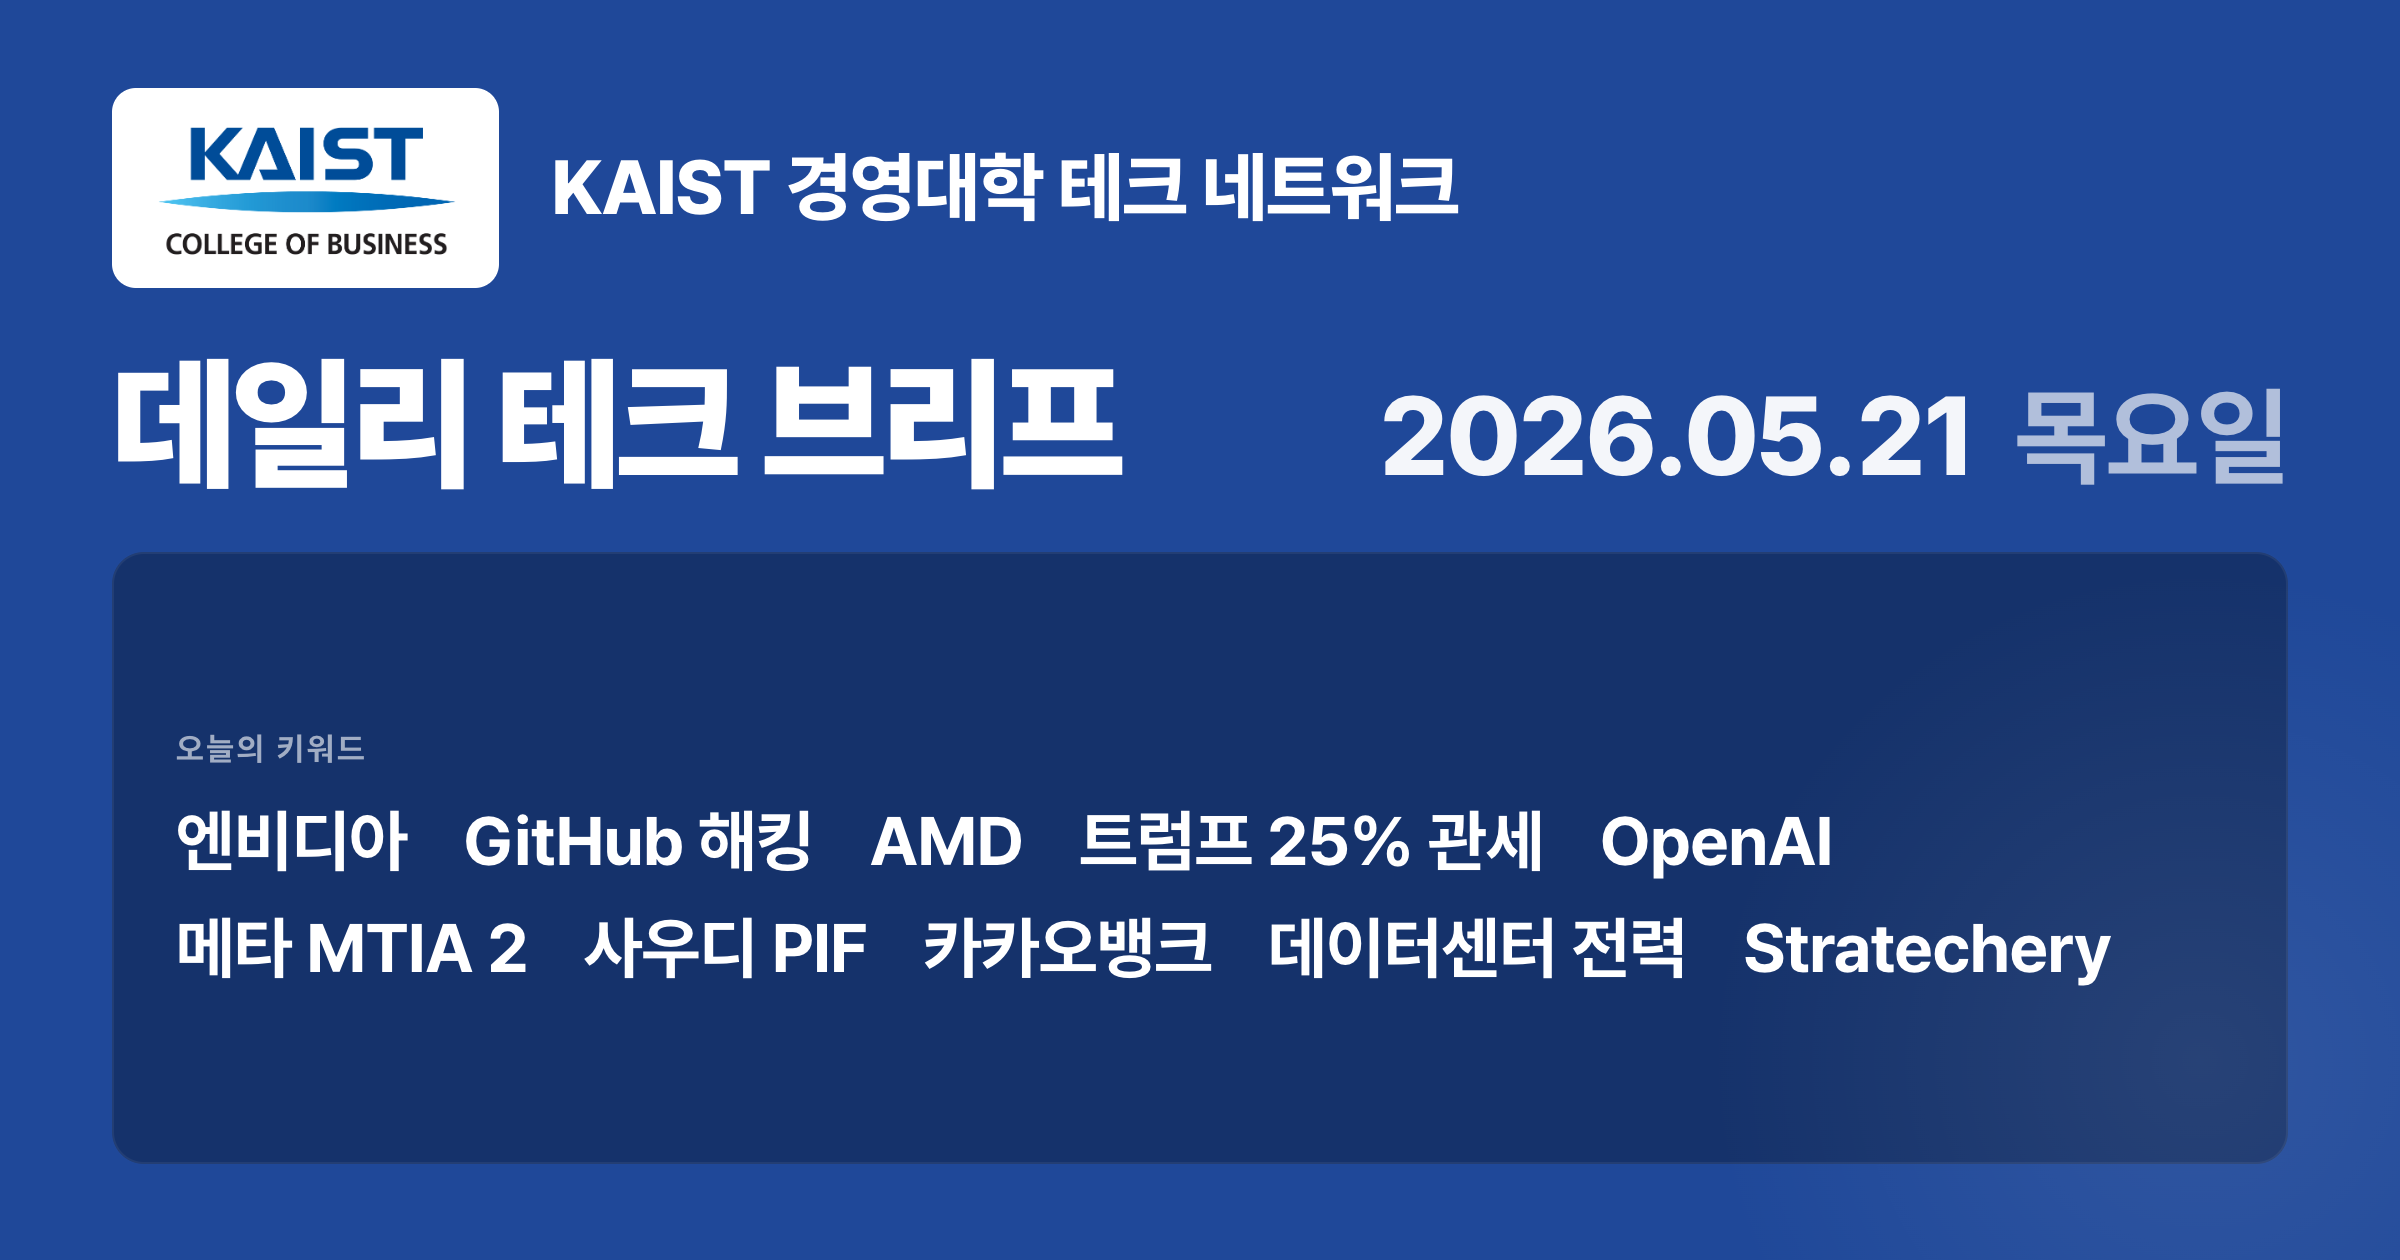
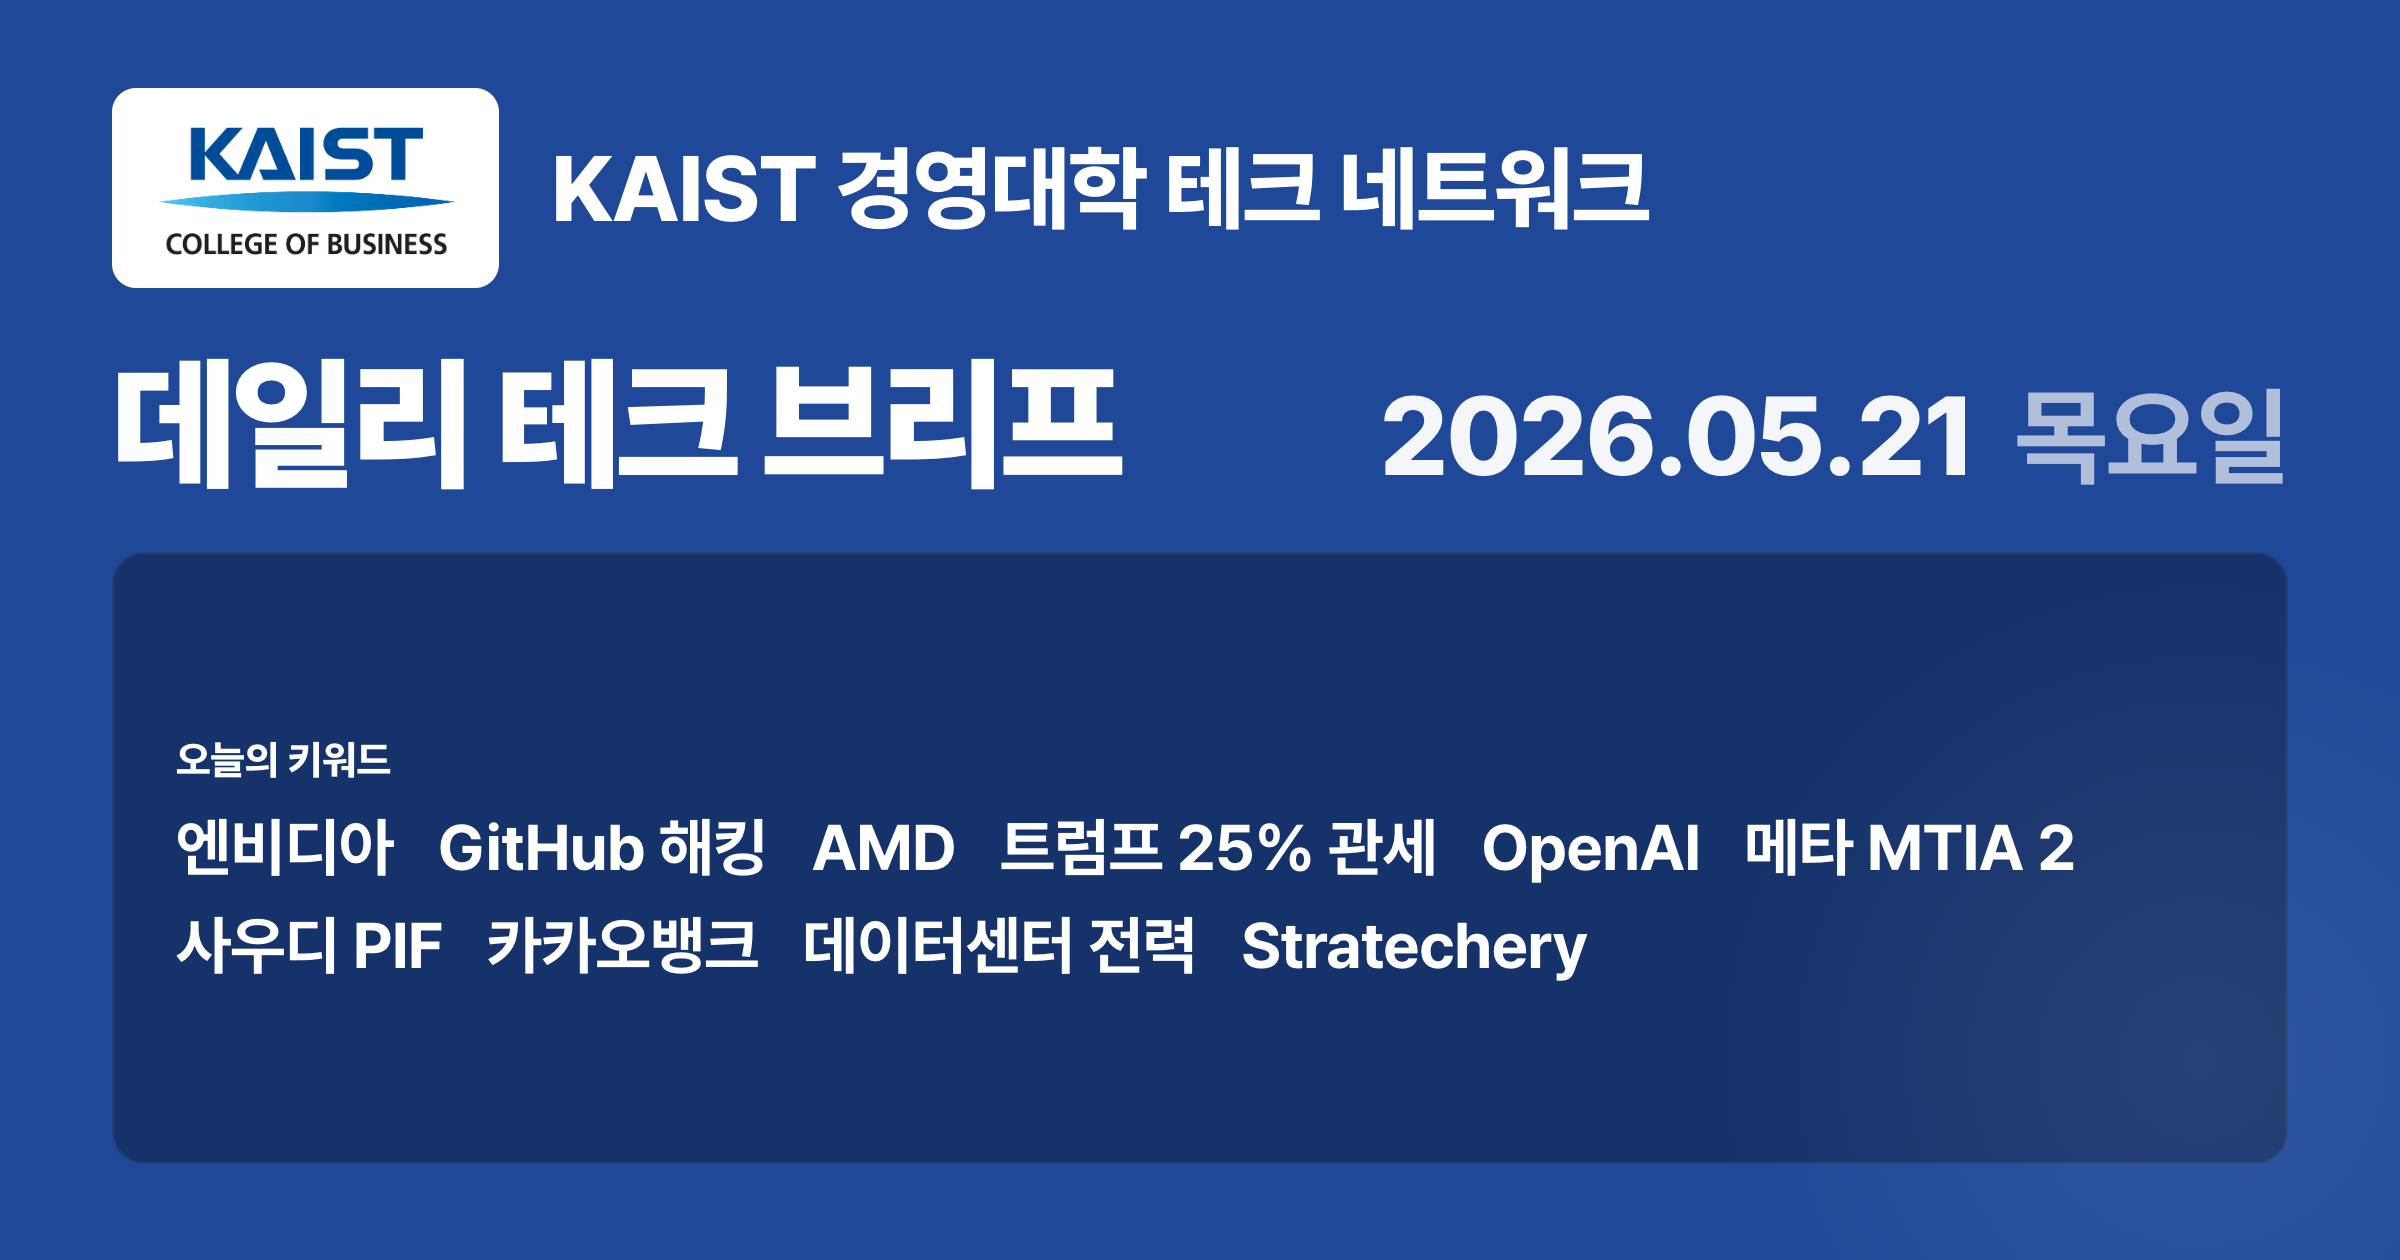
OG card: bigger brand name + bolder '오늘의 키워드' label, tighter 2-line keyword fit

Changed region(s): [[0.0625, 0.65, 0.875, 0.7738], [0.2188, 0.0929, 0.6875, 0.1857], [0.0625, 0.5881, 0.1562, 0.619]]

diff --git a/.claude/skills/tech-news-daily/templates/og-card.html b/.claude/skills/tech-news-daily/templates/og-card.html
@@ -53,11 +53,11 @@
     border-radius: 12px;
   }
   .brand-name {
-    font-size: 38px;
+    font-size: 46px;
     font-weight: 800;
     letter-spacing: -0.02em;
     color: #fff;
-    line-height: 1.1;
+    line-height: 1.05;
   }
 
   /* 중앙 — 제호 + 날짜 */
@@ -94,27 +94,27 @@
     flex: 1;
     background: var(--kaist-blue-deep);
     border-radius: 16px;
-    padding: 24px 32px;
+    padding: 20px 32px;
     display: flex;
     flex-direction: column;
     justify-content: center;
+    gap: 14px;
     box-shadow: inset 0 0 0 1px rgba(255,255,255,0.06);
   }
   .keywords-label {
-    font-size: 16px;
-    font-weight: 700;
-    letter-spacing: 0.08em;
-    color: rgba(255,255,255,0.6);
-    text-transform: uppercase;
-    margin-bottom: 18px;
+    font-size: 20px;
+    font-weight: 800;
+    letter-spacing: -0.005em;
+    color: #fff;
   }
   .keywords {
     display: flex;
     flex-wrap: wrap;
-    gap: 16px 28px;
+    gap: 14px 22px;
+    align-content: center;
   }
   .keywords .kw {
-    font-size: 34px;
+    font-size: 32px;
     font-weight: 700;
     letter-spacing: -0.015em;
     line-height: 1.1;